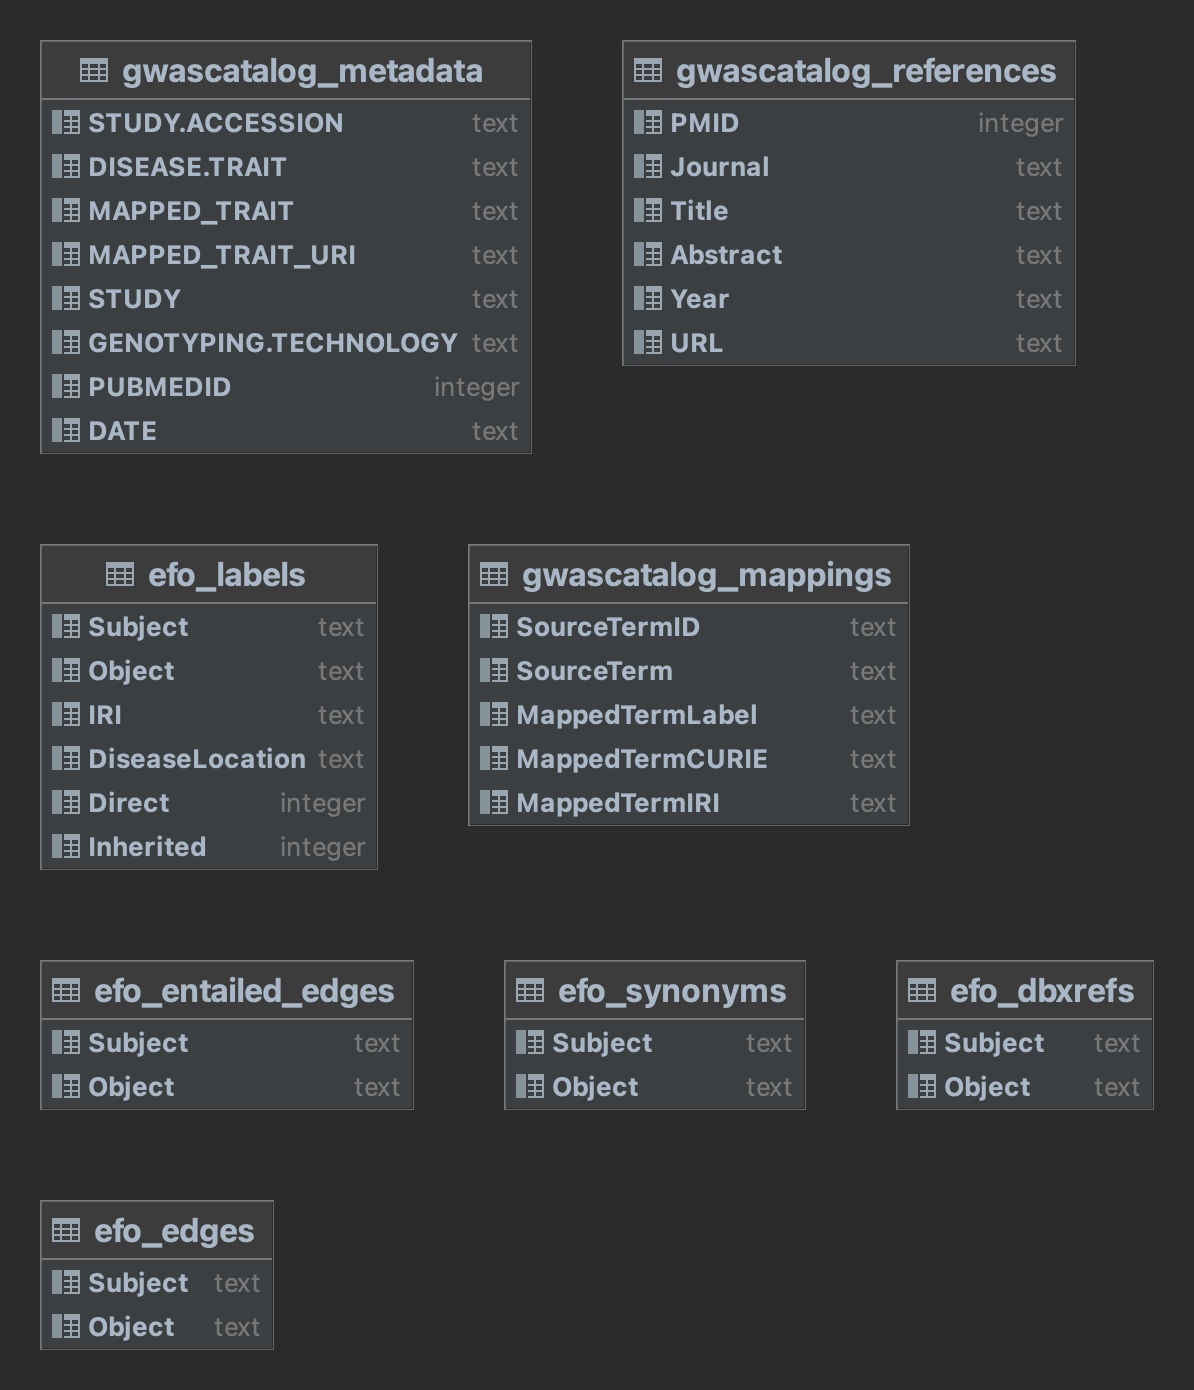
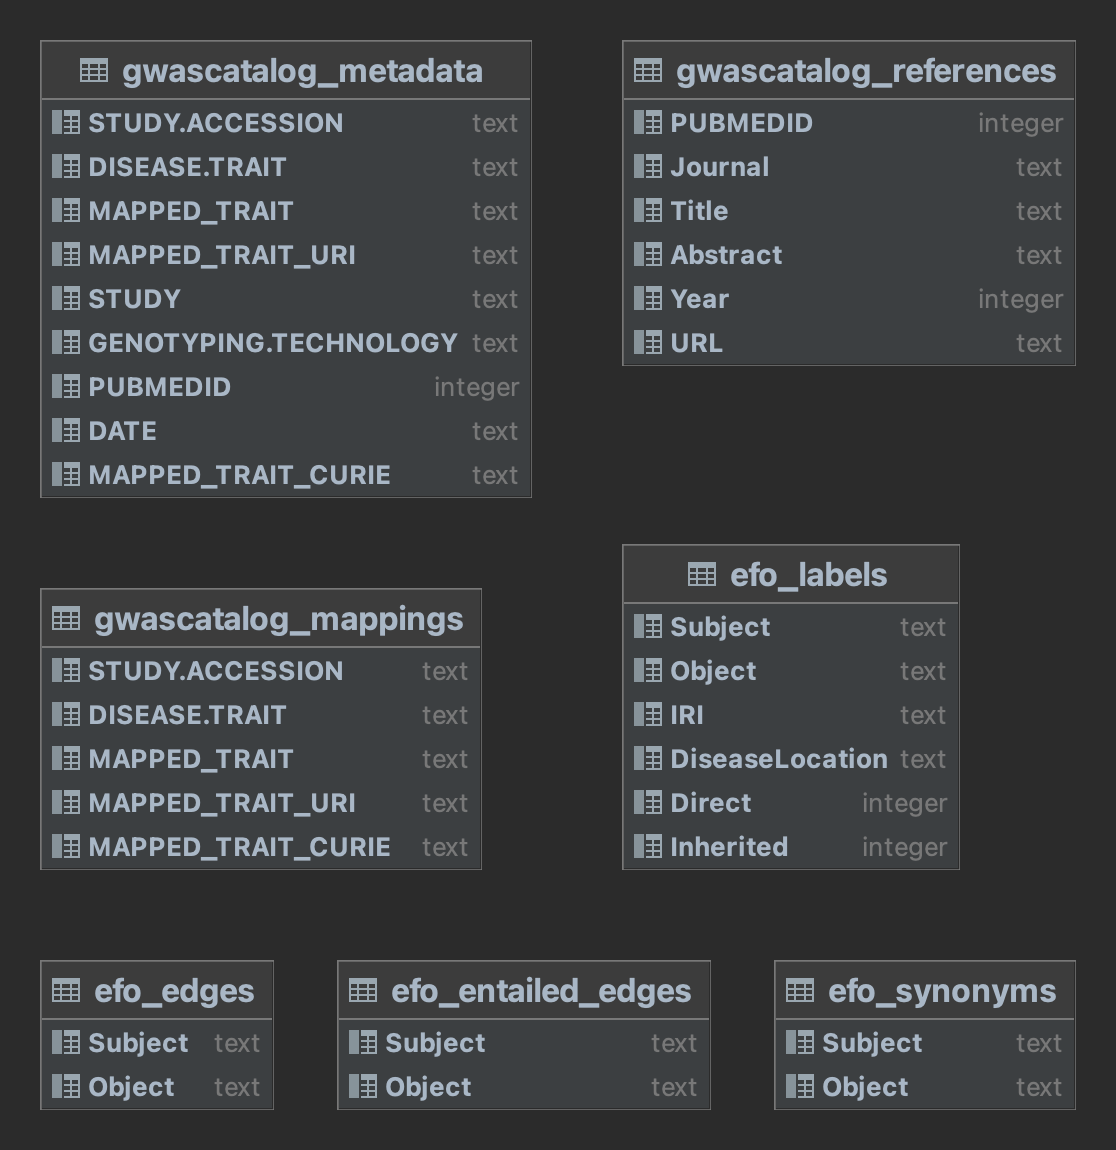
Updated README

diff --git a/README.md b/README.md
@@ -9,7 +9,7 @@ This repository provides a SQLite database designed to facilitate search for GWA
 
 - `gwascatalog_metadata` contains the original GWAS Catalog metadata table.
 - `gwascatalog_references` contains details obtained from PubMed about the articles in the `PUBMEDID` column of the metadata table. 
-- `gwascatalog_mappings` contains ontology mappings extracted from `gwascatalog_metadata`, with an additional column `MappedTermCURIE` that provides compact term identifiers (CURIEs) to enable matching/joining on terms in the EFO tables described next.
+- `gwascatalog_mappings` contains ontology mappings extracted from `gwascatalog_metadata` with each mapping in a separate row. In the original metadata there are often multiple ontology mappings provided as comma-separated strings.
 - `efo_labels` contains the following details:
   - all terms in EFO, represented by their CURIEs (`Subject` column). 
   - term labels (`Object` column). 
@@ -18,7 +18,6 @@ This repository provides a SQLite database designed to facilitate search for GWA
   - count of how many metadata points are directly mapped to those ontology terms (`Direct` column). 
   - count of how many metadata points are indirectly mapped to those terms via a more specific term in the hierarchy (`Inherited` column).
 - `efo_edges` and `efo_entailed_edges` contain, respectively, the asserted and entailed hierarchical (IS-A/SubClassOf) relationships between terms in EFO.
-- `efo_dbxrefs` contains database cross-references between terms in EFO and terms in other ontologies or controlled vocabularies, such as MeddRA, OMIM, MeSH, etc.
 - `efo_synonyms` contains the potentially multiple synonyms (in the `Object` column) of each EFO term (given in the `Subject` column).
 
 ### Querying the database
